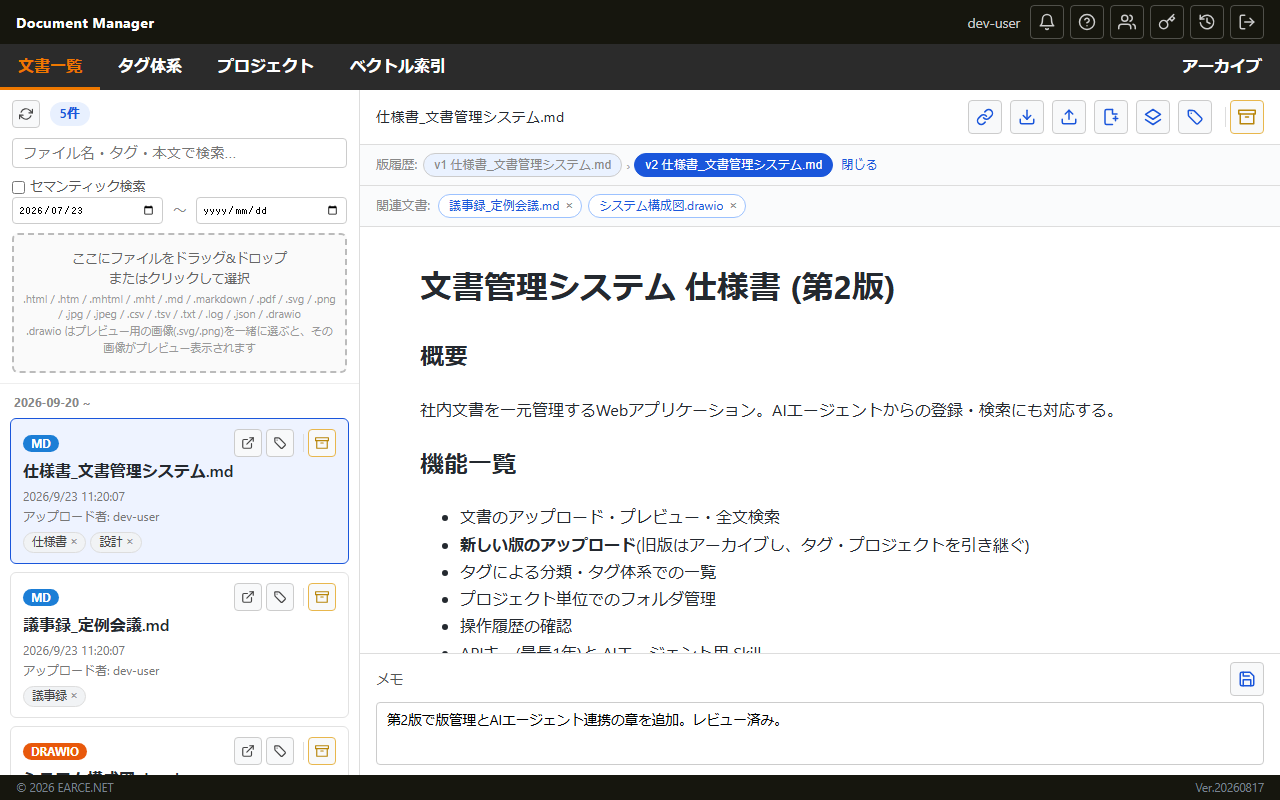
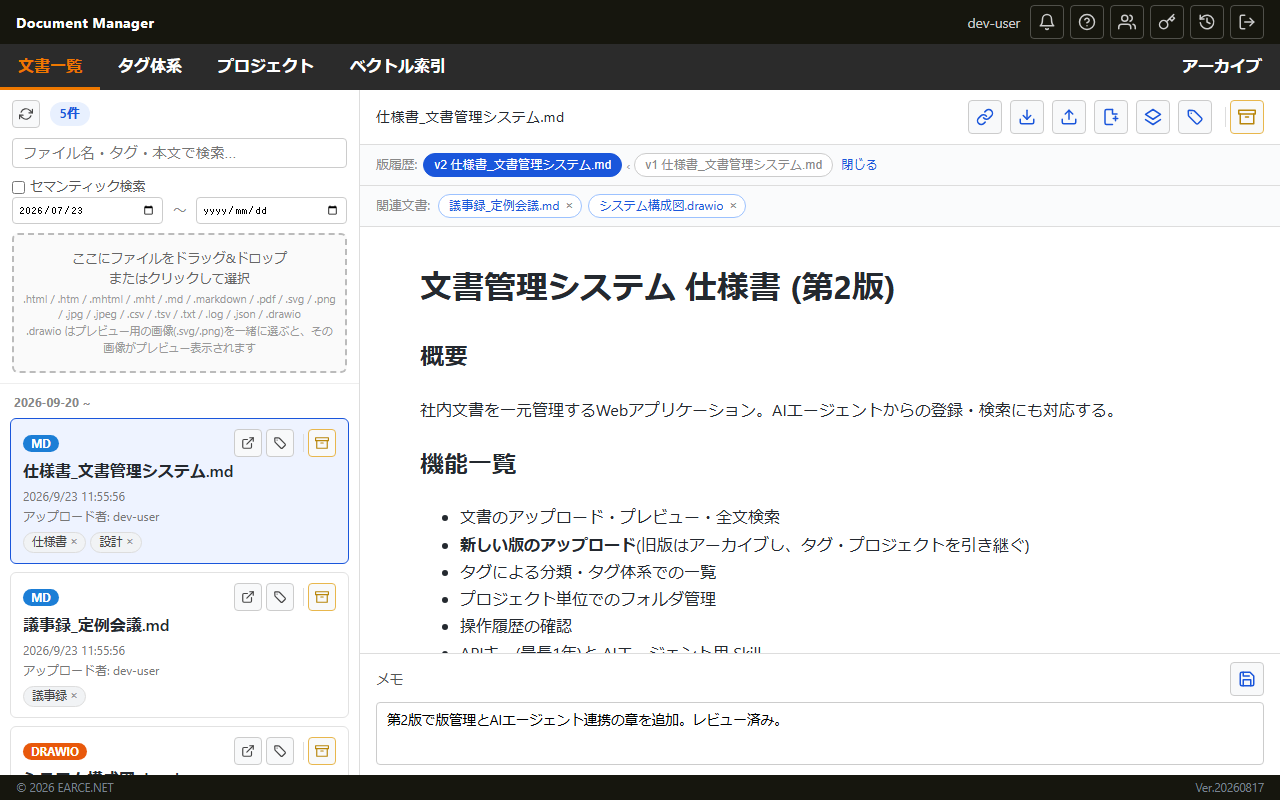
版履歴を新しい順(最新が左)に並べ替えた
普段見るのは最新版のため、左端に最新が来る方が探しやすい。APIは古い順に
返すので表示の直前で反転する(vの番号は古い方から数えたまま)。版の間の矢印も
「この版はここから来た」向き(左向き)に合わせ、畳んだときの前後ボタンも
左が新しい版・右が古い版になるよう入れ替えた。

Changed region(s): [[0.3125, 0.1875, 0.6562, 0.2188], [0.0625, 0.5938, 0.0938, 0.625]]

diff --git a/app/static/index.html b/app/static/index.html
@@ -1970,7 +1970,8 @@ const unlinkPreviousVersion = async (doc) => {
 // 版履歴の一覧を開いたままにするか。版を渡り歩いても保たれるよう、文書ごとではなく画面で1つ持つ
 let versionHistoryExpanded = false;
 
-// 版履歴(アップロード時に旧版を指定して紐付けた一連の版)を古い順に表示する。
+// 版履歴(アップロード時に旧版を指定して紐付けた一連の版)を新しい順に表示する
+// (APIは古い順に返すので、表示の直前で反転する。vの番号は古い方から数えたまま)。
 // 旧版はアーカイブ済みのため通常一覧(allDocuments)には無く、APIから都度取得する。
 // 版の数だけチップを並べるとヘッダーが何行にも膨らむため、既定は現在位置と前後への移動だけの
 // 1行に畳み、「すべての版」を押したときだけ全ての版を並べる
@@ -1993,8 +1994,8 @@ const renderVersionHistory = async (doc) => {
 		if (versionHistoryExpanded) {
 			versionHistoryRow.innerHTML = `
 				<span class="similarFilesLabel">版履歴:</span>
-				${versions.map((v, i) => `
-					${i > 0 ? `<span class="versionArrow">›</span>` : ""}
+				${versions.map((v, i) => ({v, i})).reverse().map(({v, i}, position) => `
+					${position > 0 ? `<span class="versionArrow">‹</span>` : ""}
 					<button type="button" class="versionChip ${v.id === doc.id ? "current" : ""} ${v.archived ? "archived" : ""}" data-id="${escapeHtml(v.id)}"
 						title="${versionTitle(v, i)}">v${i + 1} ${escapeHtml(v.entryFile)}</button>
 				`).join("")}
@@ -2006,11 +2007,11 @@ const renderVersionHistory = async (doc) => {
 			const latest = versions[versions.length - 1];
 			versionHistoryRow.innerHTML = `
 				<span class="similarFilesLabel">版履歴:</span>
-				<button type="button" class="versionNavButton" aria-label="1つ前の版へ"
-					${previous ? `data-id="${escapeHtml(previous.id)}" title="${versionTitle(previous, currentIndex - 1)}"` : "disabled"}>‹</button>
-				<span class="versionPosition">v${currentIndex + 1} / 全${versions.length}版</span>
 				<button type="button" class="versionNavButton" aria-label="1つ後の版へ"
-					${next ? `data-id="${escapeHtml(next.id)}" title="${versionTitle(next, currentIndex + 1)}"` : "disabled"}>›</button>
+					${next ? `data-id="${escapeHtml(next.id)}" title="${versionTitle(next, currentIndex + 1)}"` : "disabled"}>‹</button>
+				<span class="versionPosition">v${currentIndex + 1} / 全${versions.length}版</span>
+				<button type="button" class="versionNavButton" aria-label="1つ前の版へ"
+					${previous ? `data-id="${escapeHtml(previous.id)}" title="${versionTitle(previous, currentIndex - 1)}"` : "disabled"}>›</button>
 				${latest.id === doc.id ? "" : `<button type="button" class="versionChip" data-id="${escapeHtml(latest.id)}"
 					title="${versionTitle(latest, versions.length - 1)}">最新版へ</button>`}
 				<button type="button" class="versionToggle" data-toggle="1">すべての版</button>

diff --git a/test/api/ui-flow.e2e.js b/test/api/ui-flow.e2e.js
@@ -378,10 +378,10 @@ test.describe.serial("主要UIフロー(実ブラウザ)", () => {
 			await page.locator("#confirmYesButton").click();
 			const row = page.locator("#versionHistoryRow");
 			await expect(row).toBeVisible();
-			// 既定は畳まれているため、一覧は「すべての版」を開いてから確かめる
+			// 既定は畳まれているため、一覧は「すべての版」を開いてから確かめる(新しい版が左)
 			await expect(row.locator(".versionPosition")).toHaveText("v2 / 全2版");
 			await row.locator(".versionToggle").click();
-			await expect(row.locator(".versionChip")).toHaveText([`v1 ${oldName}`, `v2 ${newName}`]);
+			await expect(row.locator(".versionChip")).toHaveText([`v2 ${newName}`, `v1 ${oldName}`]);
 			await expect(page.locator("#documentList li", {hasText: oldName})).toHaveCount(0);
 		});
 
@@ -433,10 +433,10 @@ test.describe.serial("主要UIフロー(実ブラウザ)", () => {
 			await expect(page.locator("#previewTitle")).toHaveText(v2Name);
 		});
 
-		await test.step("すべての版を開くと v1 › v2 が並び、現在の版が強調される", async () => {
+		await test.step("すべての版を開くと新しい版から順に並び、現在の版が強調される", async () => {
 			const row = page.locator("#versionHistoryRow");
 			await row.locator(".versionToggle").click();
-			await expect(row.locator(".versionChip")).toHaveText([`v1 ${v1Name}`, `v2 ${v2Name}`]);
+			await expect(row.locator(".versionChip")).toHaveText([`v2 ${v2Name}`, `v1 ${v1Name}`]);
 			await expect(row.locator(".versionChip.current")).toHaveText(`v2 ${v2Name}`);
 		});
 
